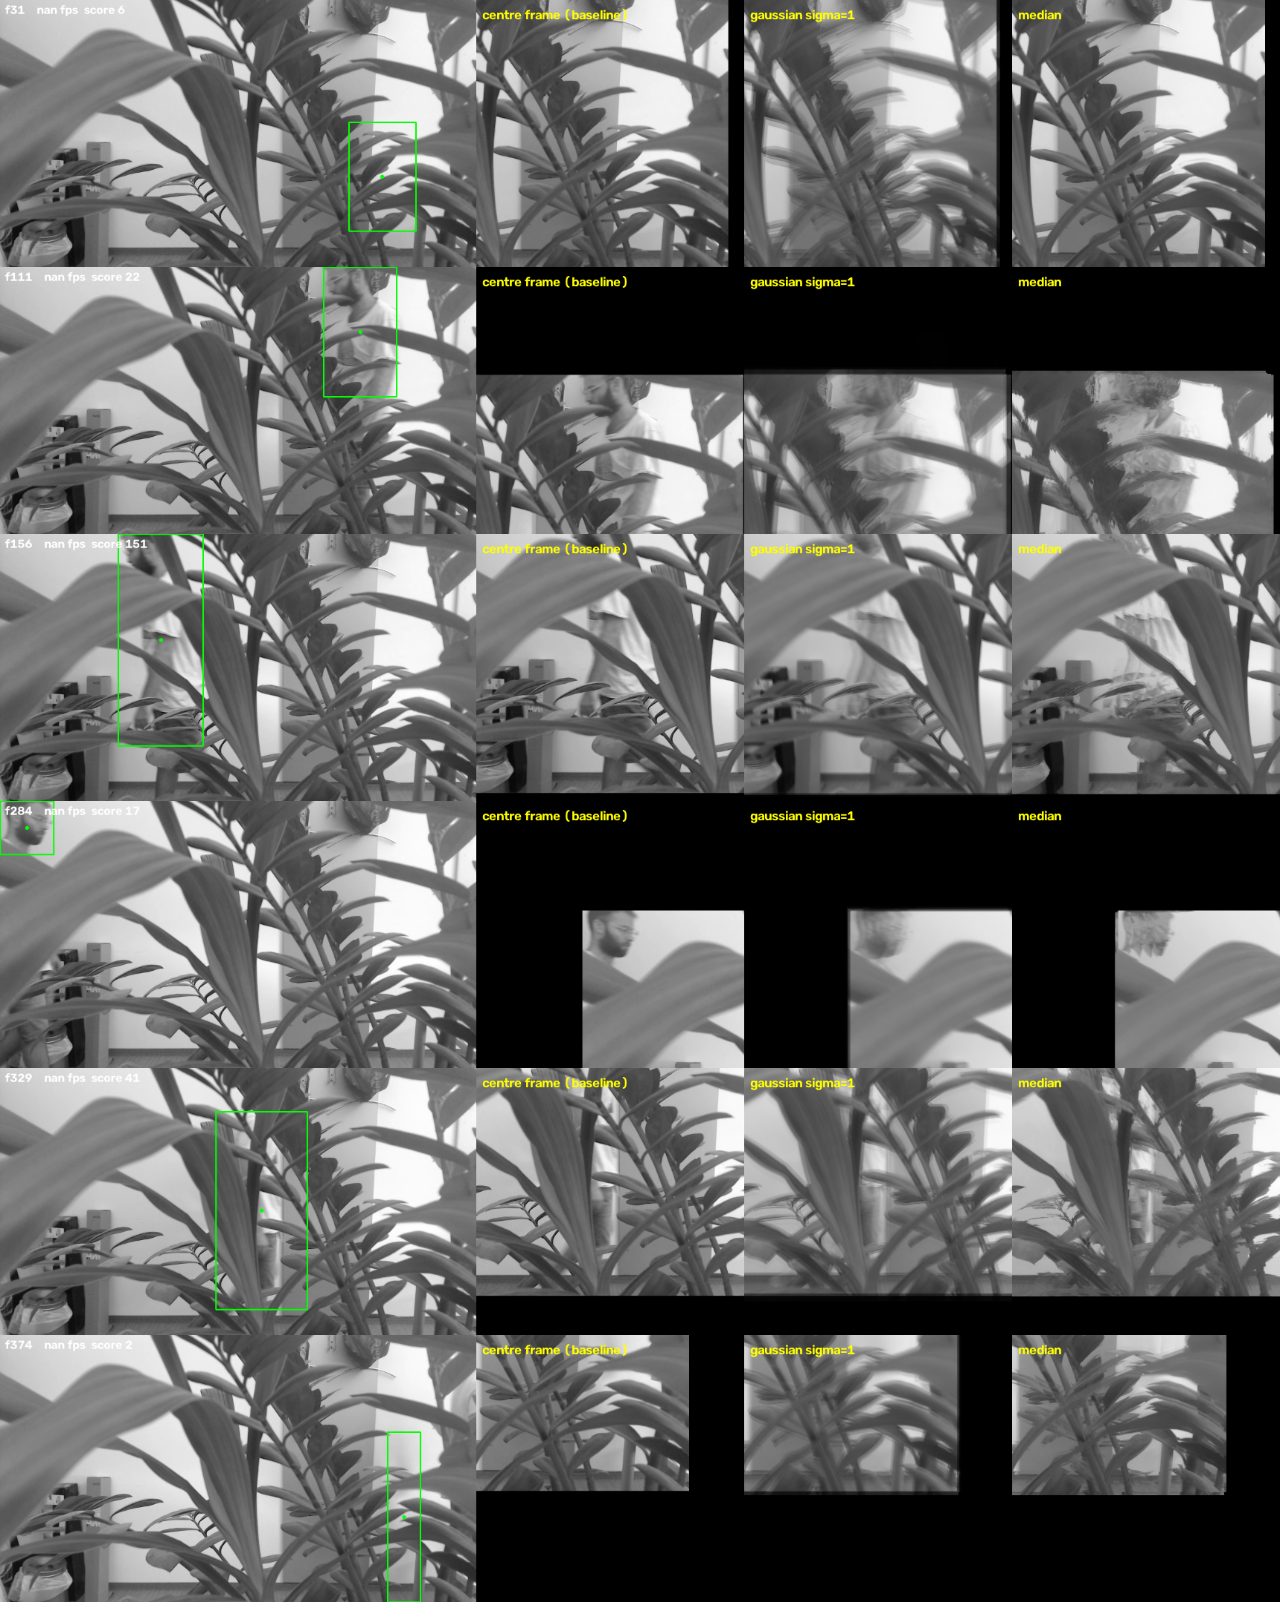
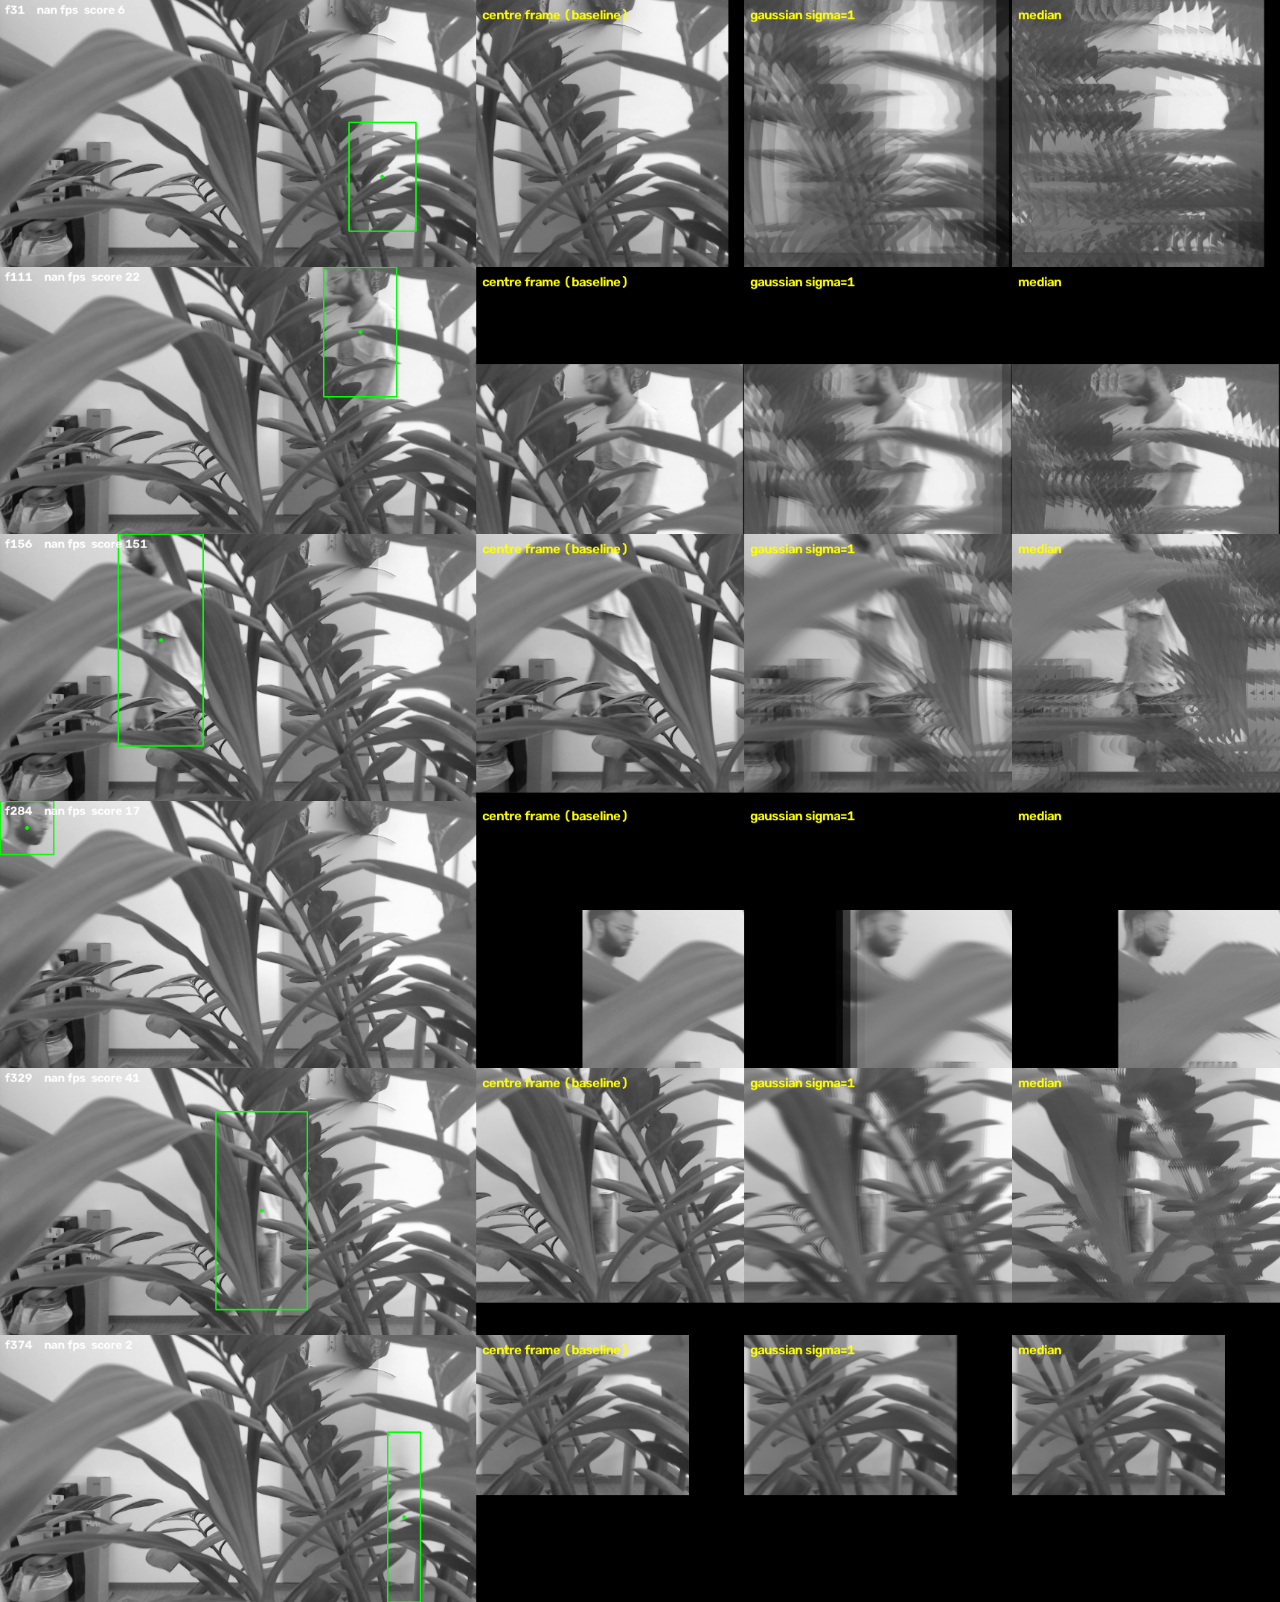
Fix align_frames: it followed a fixed world point, not the person
align_frames cropped each frame at anchor_for_frame(winner, t) - vx*(t - center_t). But
anchor_for_frame already returns the person's position AT frame t, so subtracting vx*dt
cancelled the alignment and left a window fixed to p(center_t) in world coordinates. With a
static occluder that is exactly backwards: the occluder stayed sharp and the median removed
the moving person. The docstring described this as intentional ("every frame samples the same
real-world point"), which is a legitimate thing to want - it reconstructs the BACKGROUND -
but it is not what fuse() exists to do and nothing in this repo asked for it.

Measured on a synthetic bar translating at a known 8 px per strided frame behind a static
striped occluder: the "aligned" person drifted +8.6 px per frame (52 px across the 7-frame
window) against +0.78 px after the fix, and the median recovered 20% more of the person's own
pixels. Four candidate alignment targets were compared; all person-following variants were
equivalent within noise, so the fix is the smallest one - pin the constant-velocity model at
the centre-frame anchor and reuse the winner's own vx, with a single mean y since a fragment
centroid jumps between head, torso and legs. Regression test added, and
sanity_check_integrate.py now skips its NFO-dependent half instead of failing when the data
is absent.

This invalidates every prior result from integrate(), which is recorded in both docs: the HOG
[…]

diff --git a/tracking/core/integrate_image.py b/tracking/core/integrate_image.py
@@ -44,17 +44,37 @@ def restrict_to_nearby(img, frame_mask, detections_at_frame, ax, ay, merge_radiu
 
 
 def align_frames(frames: np.ndarray, winner: dict, crop_size: int = 220) -> np.ndarray:
-    """Crop every frame to crop_size x crop_size, centered on the winning track's anchor
-    point at that frame and shifted by -vx*dt so every frame samples the same real-world
-    point as the center frame (this tracker's motion model is horizontal-only, matching
-    its constant-velocity Kalman assumption)."""
+    """Crop every frame to crop_size x crop_size, FOLLOWING the winning track's fitted
+    motion, so the person lands at the same place in every crop and static occluders sweep
+    across it. That is the property fuse() needs: with the person stationary in aligned
+    coordinates, an occluder covering a given pixel in a minority of frames gets outvoted by
+    the median, while a world-fixed window would keep the (static) occluder sharp and
+    median-remove the moving person instead - exactly backwards.
+
+    The crop path is the constant-velocity motion model pinned at the center frame's anchor,
+    with a single mean y (this tracker's motion model is horizontal-only, matching its Kalman
+    assumption). Per-frame anchors are deliberately NOT used: under fragmented occlusion the
+    blob centroid jumps between head, torso and legs, which would shift the crop by a large
+    fraction of a body height between frames.
+
+    Fixed 2026-08-31. The previous version cropped at `anchor_for_frame(winner, t) -
+    vx * (t - center_t)`, which double-corrected: anchor_for_frame already returns the
+    person's position AT frame t, so subtracting vx*dt cancelled the alignment and left a
+    window fixed to p(center_t) in world coordinates. Measured on a synthetic bar
+    translating at a known 8 px per strided frame behind a static striped occluder, the
+    "aligned" person drifted +8.6 px per frame (52 px across a 7-frame window) against
+    +0.78 px for this version, and the median recovered 20% more of the person's own pixels.
+    Any result computed with integrate() before this date was computed on a de-aligned
+    stack. A world-fixed window is a legitimate thing to want - it reconstructs the
+    BACKGROUND - but nothing in this repo asked for it.
+    """
     T = frames.shape[0]
     center_t = T // 2
+    ax, _ = anchor_for_frame(winner, center_t)
+    ay = float(np.mean([winner['history'][f][1] for f in winner['frames']]))
     aligned = np.zeros((T, crop_size, crop_size), dtype=frames.dtype)
     for t in range(T):
-        ax, ay = anchor_for_frame(winner, t)
-        dt = t - center_t
-        aligned[t] = crop_at(frames[t], ax - winner['vx'] * dt, ay, crop_size)
+        aligned[t] = crop_at(frames[t], ax + winner['vx'] * (t - center_t), ay, crop_size)
     return aligned
 
 

diff --git a/tracking/tests/sanity_check_integrate.py b/tracking/tests/sanity_check_integrate.py
@@ -5,7 +5,7 @@ import numpy as np
 
 from tracking.core.blob_tracker import detect_blobs, score_and_fit, track_blobs
 from tracking.eval.eval_nfo import BG_FRAMES, EXPECTED_HEIGHT, MAX_DIST, MERGE_RADIUS, NTH_FRAME, SPAN
-from tracking.core.integrate_image import integrate
+from tracking.core.integrate_image import align_frames, integrate
 from tracking.core.preprocess import filter_by_shape, foreground_mask, refine_mask
 
 
@@ -15,8 +15,42 @@ def load_sequence_prefix(seq, up_to):
     return np.stack([cv2.imread(os.path.join(seq_in, jpgs[i]), 0) for i in range(up_to)], axis=0)
 
 
+def check_alignment_follows_the_person():
+    """align_frames must hold the PERSON still across the stack, not a fixed world point.
+    A world-fixed window keeps a static occluder sharp and median-removes the moving person,
+    which is the opposite of what fuse() exists to do. Regression test for the -vx*dt
+    double-correction fixed 2026-08-31 (the person drifted +8.6px per frame before it).
+
+    The winner dict is built by hand so this tests align_frames alone, with no dependence on
+    the tracker or on any dataset.
+    """
+    H, W, vx, bar_w, bar_h, T = 200, 700, 8.0, 40, 120, 7
+    frames, history = [], {}
+    for t in range(T):
+        f = np.full((H, W), 30, np.uint8)
+        x = int(60 + vx * t)
+        f[40:40 + bar_h, x:x + bar_w] = 255                 # the person
+        for sx in range(0, W, 45):                          # static occluder, drawn on top
+            f[:, sx:sx + 22] = 110
+        frames.append(f)
+        history[t] = (x + bar_w / 2, 40 + bar_h / 2, bar_h, bar_w, float('nan'), float('nan'))
+    winner = dict(vx=vx, frames=list(range(T)), history=history)
+
+    aligned = align_frames(np.stack(frames), winner, crop_size=int(1.6 * bar_h))
+    xs = [float(np.nonzero(c > 200)[1].mean()) for c in aligned if (c > 200).any()]
+    assert len(xs) == T, f"person visible in only {len(xs)}/{T} aligned crops"
+    step = float(np.mean(np.diff(xs)))
+    assert abs(step) < 2.0, (f"person drifts {step:+.1f}px per frame inside the aligned crop "
+                             f"- align_frames is following a world point, not the person")
+    print(f"alignment ok: person drifts {step:+.2f}px/frame inside the aligned crop")
+
+
 def main():
+    check_alignment_follows_the_person()
     seq, center = 'seq1', 17
+    if not os.path.isdir(f'data/nfo_final/nfo_final/{seq}'):
+        print(f"skip fusion checks: data/nfo_final/nfo_final/{seq} not present")
+        return
     frames_all = load_sequence_prefix(seq, center + SPAN + 1)
     masks_all = filter_by_shape(refine_mask(foreground_mask(frames_all, bg_frames=BG_FRAMES)))
     window_indices = list(range(center - SPAN, center + SPAN + 1, NTH_FRAME))

diff --git a/docs/streaming_minimal_start.md b/docs/streaming_minimal_start.md
@@ -1,5 +1,37 @@
 # Minimal starting point: streaming tracker on a fake stream, with detection overlay
 
+> **ALIGNMENT BUG FOUND AND FIXED 2026-08-31 — the integration results quoted below were
+> computed on a DE-ALIGNED stack and must not be reused.** `align_frames` cropped each frame
+> at `anchor_for_frame(winner, t) - vx*(t - center_t)`. But `anchor_for_frame` already
+> returns the person's position *at frame t*, so subtracting `vx*dt` cancelled the alignment
+> and left a window fixed to `p(center_t)` in **world** coordinates. With a static occluder
+> that is exactly backwards: the occluder stayed sharp and the median removed the *moving
+> person*. Measured on a synthetic bar translating at a known 8 px per strided frame behind a
+> static striped occluder, the "aligned" person drifted **+8.6 px per frame (52 px across the
+> 7-frame window)** against +0.78 px after the fix, and the median then recovered 20% more of
+> the person's own pixels. Regression test:
+> `tracking/tests/sanity_check_integrate.py::check_alignment_follows_the_person`.
+>
+> **What this invalidates.** Every number below that came from `integrate()`: the HOG
+> integrated-vs-centre comparison (30.0% vs 10.0%, and the 240-window occlusion-tercile
+> table), and the quoted 19.75-vs-22.04 MAE figures. The stated *mechanism* is wrong too —
+> "integration aligns the person's centroid but limbs articulate" — the person was not
+> centroid-aligned at all, they were smeared across ~50-100 px of translation, which is a far
+> larger effect than limb articulation. Note also that **neither** harness exists in this
+> repo: `grep -rn HOGDescriptor` returns nothing, and there is no script, metric definition
+> or data behind the MAE figures. Both the pro- and anti-integration measurements are
+> currently unreproducible. Re-run before citing either.
+>
+> **The design constraint this exposed, which is closed-form.** In aligned coordinates a
+> static occluder moves at -vx, so a pixel is occluded for a fraction d ~ min(1, w / (v*(T-1)))
+> of the window, for occluder width w and speed v px per strided frame. The median recovers
+> the pixel only when d < 1/2, i.e. **v*(T-1) > 2w**. Measured on ido_walk.mkv: |vx| median
+> 16.1 px per strided frame, so the window sweeps 96 px and only occluders narrower than
+> ~48 px can be cleared. Wider ones survive as smeared streaks no matter how the fusion is
+> weighted — which is visible in `images/stream/split_montage.png`. That is a property of
+> window length times speed, not of the fusion rule, and it is the first thing to check
+> before tuning sigma.
+
 Read this first if you are starting a fresh session to implement the streaming tracker. It
 exists to make the *surface area* minimal - the set of things you must read and may touch -
 rather than to minimise the file count of the repository.

diff --git a/docs/superpowers/plans/2026-08-28-streaming-realtime-tracker.md b/docs/superpowers/plans/2026-08-28-streaming-realtime-tracker.md
@@ -50,6 +50,38 @@
 
 **Spec:** `docs/streaming_minimal_start.md` (the dependency closure and the three things needed), `docs/scale_generalization_plan.md` (evidence behind every constant).
 
+> **ALIGNMENT BUG FOUND AND FIXED 2026-08-31 — the integration results quoted below were
+> computed on a DE-ALIGNED stack and must not be reused.** `align_frames` cropped each frame
+> at `anchor_for_frame(winner, t) - vx*(t - center_t)`. But `anchor_for_frame` already
+> returns the person's position *at frame t*, so subtracting `vx*dt` cancelled the alignment
+> and left a window fixed to `p(center_t)` in **world** coordinates. With a static occluder
+> that is exactly backwards: the occluder stayed sharp and the median removed the *moving
+> person*. Measured on a synthetic bar translating at a known 8 px per strided frame behind a
+> static striped occluder, the "aligned" person drifted **+8.6 px per frame (52 px across the
+> 7-frame window)** against +0.78 px after the fix, and the median then recovered 20% more of
+> the person's own pixels. Regression test:
+> `tracking/tests/sanity_check_integrate.py::check_alignment_follows_the_person`.
+>
+> **What this invalidates.** Every number below that came from `integrate()`: the HOG
+> integrated-vs-centre comparison (30.0% vs 10.0%, and the 240-window occlusion-tercile
+> table), and the quoted 19.75-vs-22.04 MAE figures. The stated *mechanism* is wrong too —
+> "integration aligns the person's centroid but limbs articulate" — the person was not
+> centroid-aligned at all, they were smeared across ~50-100 px of translation, which is a far
+> larger effect than limb articulation. Note also that **neither** harness exists in this
+> repo: `grep -rn HOGDescriptor` returns nothing, and there is no script, metric definition
+> or data behind the MAE figures. Both the pro- and anti-integration measurements are
+> currently unreproducible. Re-run before citing either.
+>
+> **The design constraint this exposed, which is closed-form.** In aligned coordinates a
+> static occluder moves at -vx, so a pixel is occluded for a fraction d ~ min(1, w / (v*(T-1)))
+> of the window, for occluder width w and speed v px per strided frame. The median recovers
+> the pixel only when d < 1/2, i.e. **v*(T-1) > 2w**. Measured on ido_walk.mkv: |vx| median
+> 16.1 px per strided frame, so the window sweeps 96 px and only occluders narrower than
+> ~48 px can be cleared. Wider ones survive as smeared streaks no matter how the fusion is
+> weighted — which is visible in `images/stream/split_montage.png`. That is a property of
+> window length times speed, not of the fusion rule, and it is the first thing to check
+> before tuning sigma.
+
 ## Global Constraints
 
 - **No new pip dependencies.** `cv2`, `numpy`, `scipy` are enough for all three days.
